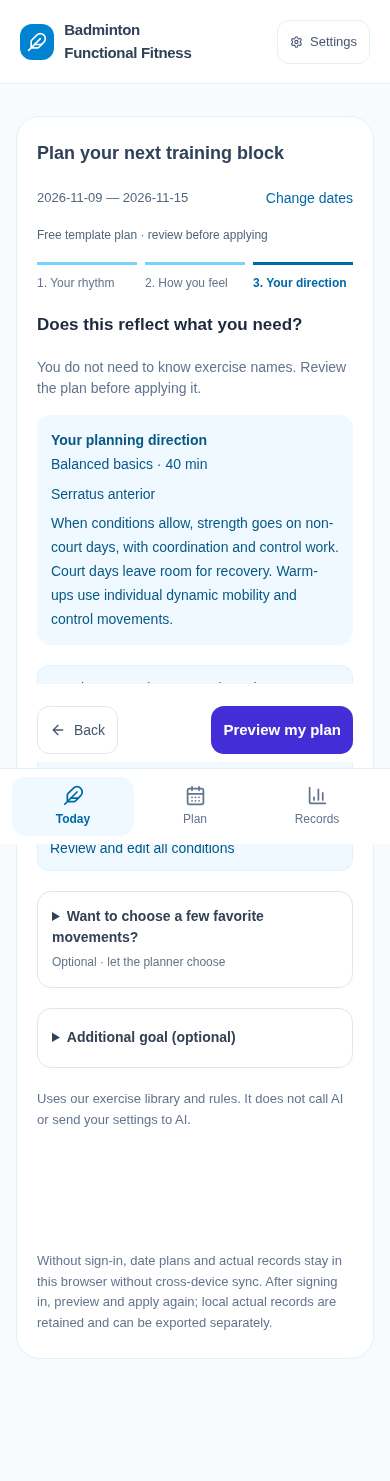
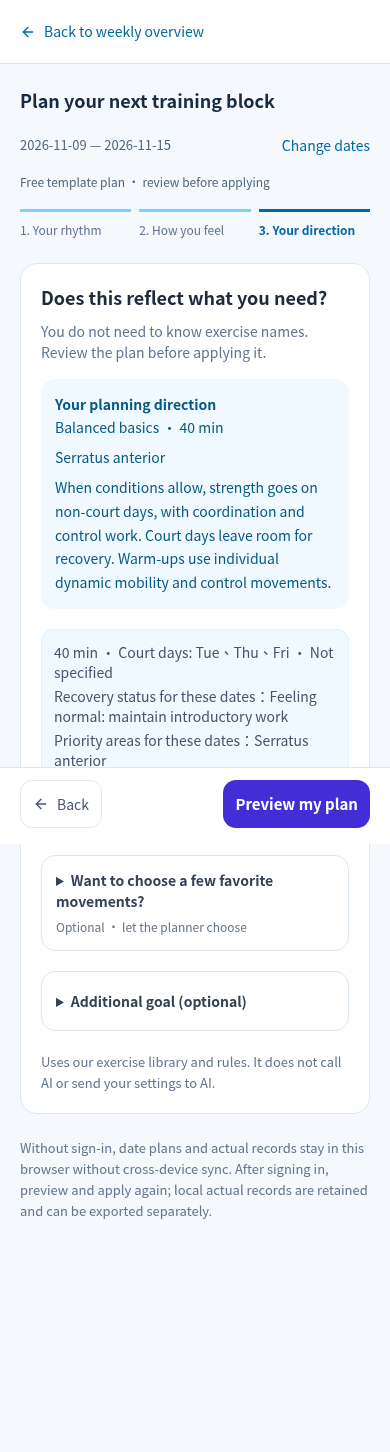
Keep automatic planning in one workspace and verify both entry paths

diff --git a/src/App.jsx b/src/App.jsx
@@ -648,7 +648,7 @@ function FitnessApp({ account, calendar, publicDraft, onPublicDraft, pendingDraf
       {activeTab === 'plan' && planView === 'library' && <>{planView === 'library' && <div className="screen-header"><p className="eyebrow">{t('planEyebrow')}</p><h2 className="screen-title">{t('libraryTab')}</h2><p className="screen-description">{t('libraryDescription')}</p></div>}{subnav([['week', 'planningTab'], ['library', 'libraryTab']], planView, changePlanView, t('navPlan'))}</>}
       {showPlanArea && !planLoaded && <p role="status" className="p-6 text-sm">{t('loadingPlan')}</p>}
       {activeTab === 'plan' && planView === 'week' && planScreen === 'overview' && !periodCreating && plannerActions}
-      {showPlanArea && planLoaded && !hasCurrentPlan && !selectedPeriod && !pendingDraft && (activeTab === 'train' || periodCreating) && !['manual', 'saved', 'assign', 'legacy-ai', 'legacy-preview'].includes(planScreen) && firstPlan}
+      {showPlanArea && planLoaded && !hasCurrentPlan && !selectedPeriod && !pendingDraft && activeTab === 'train' && !['manual', 'saved', 'assign', 'legacy-ai', 'legacy-preview'].includes(planScreen) && firstPlan}
       <Suspense fallback={<p role="status" className="p-6">{t('loadingPlan')}</p>}>
         {activeTab === 'plan' && planScreen === 'manual' && <ManualPlanner workoutStore={workoutStore} uid={user?.uid} today={today} lang={lang} t={t} exercises={exercises} eligibleExercises={weeklyAvailable} profile={profile} initialSessions={manualInput} initialActiveDate={manualActiveDate} onOrganize={organizeExercise} canManage={!!user} onSignIn={() => navigate('settings')} onContextChange={setPlanningContext} onProfileChange={setProfile} onCancel={() => setPlanScreen('overview')} onSaveWorkout={setSaveWorkoutDay} onShare={shareDays} onPreview={sessions => { setAssignment({ days: sessions, initialDates: sessions.map(day => day.date), name: lang === 'zh' ? '我的手動課表' : 'My manual plan', returnScreen: 'manual' }); setPlanScreen('assign'); }} />}
         {activeTab === 'plan' && planScreen === 'saved' && <SavedWorkouts onEdit={item => openManual([{ ...savedWorkoutDay(item, lang), date: today }], item)} store={workoutStore} exercises={exercises} lang={lang} onUse={useWorkout} onShare={item => shareDays(savedWorkoutDay(item, lang), item.name)} onClose={() => setPlanScreen('overview')} />}

diff --git a/docs/coach-guided-planning/REVIEW.md b/docs/coach-guided-planning/REVIEW.md
@@ -21,3 +21,8 @@
 
 ## 維護與範圍
 不新增 AI 呼叫、金鑰要求、Firestore 欄位或資料庫規則。提示共用排課引擎的限制決策；預覽統計是由課表推導的唯讀資料，不另存一份狀態。新流程加入既有整合測試入口，原設計與截圖保留。
+
+## 正式站入口複驗
+首次發布後的實際截圖揭露既有入口錯誤：無課表使用者從「課表→自動排課」進入時，first-plan 與週課表條件會同時掛載兩個 PeriodWorkspace。功能選擇器仍能找到可操作元素，因此只檢查成功產生預覽不足以發現畫面重複。已將 first-plan 限定為「今天」入口，教練流程測試覆蓋兩個入口並強制任何階段只有一個 workspace；畫面快照更新為單一流程。
+
+修正後重新通過手機中英文四組流程、Back 導覽、日期問卷與登入保存、手選動作保留。發布 CI 的舊 compact 測試另遇到 reload 等待 networkidle2 逾時，已改以 DOM 載入後等待真實動作入口，再驗證實做資料保留；桌機與手機複驗通過，不取消任何資料斷言。
